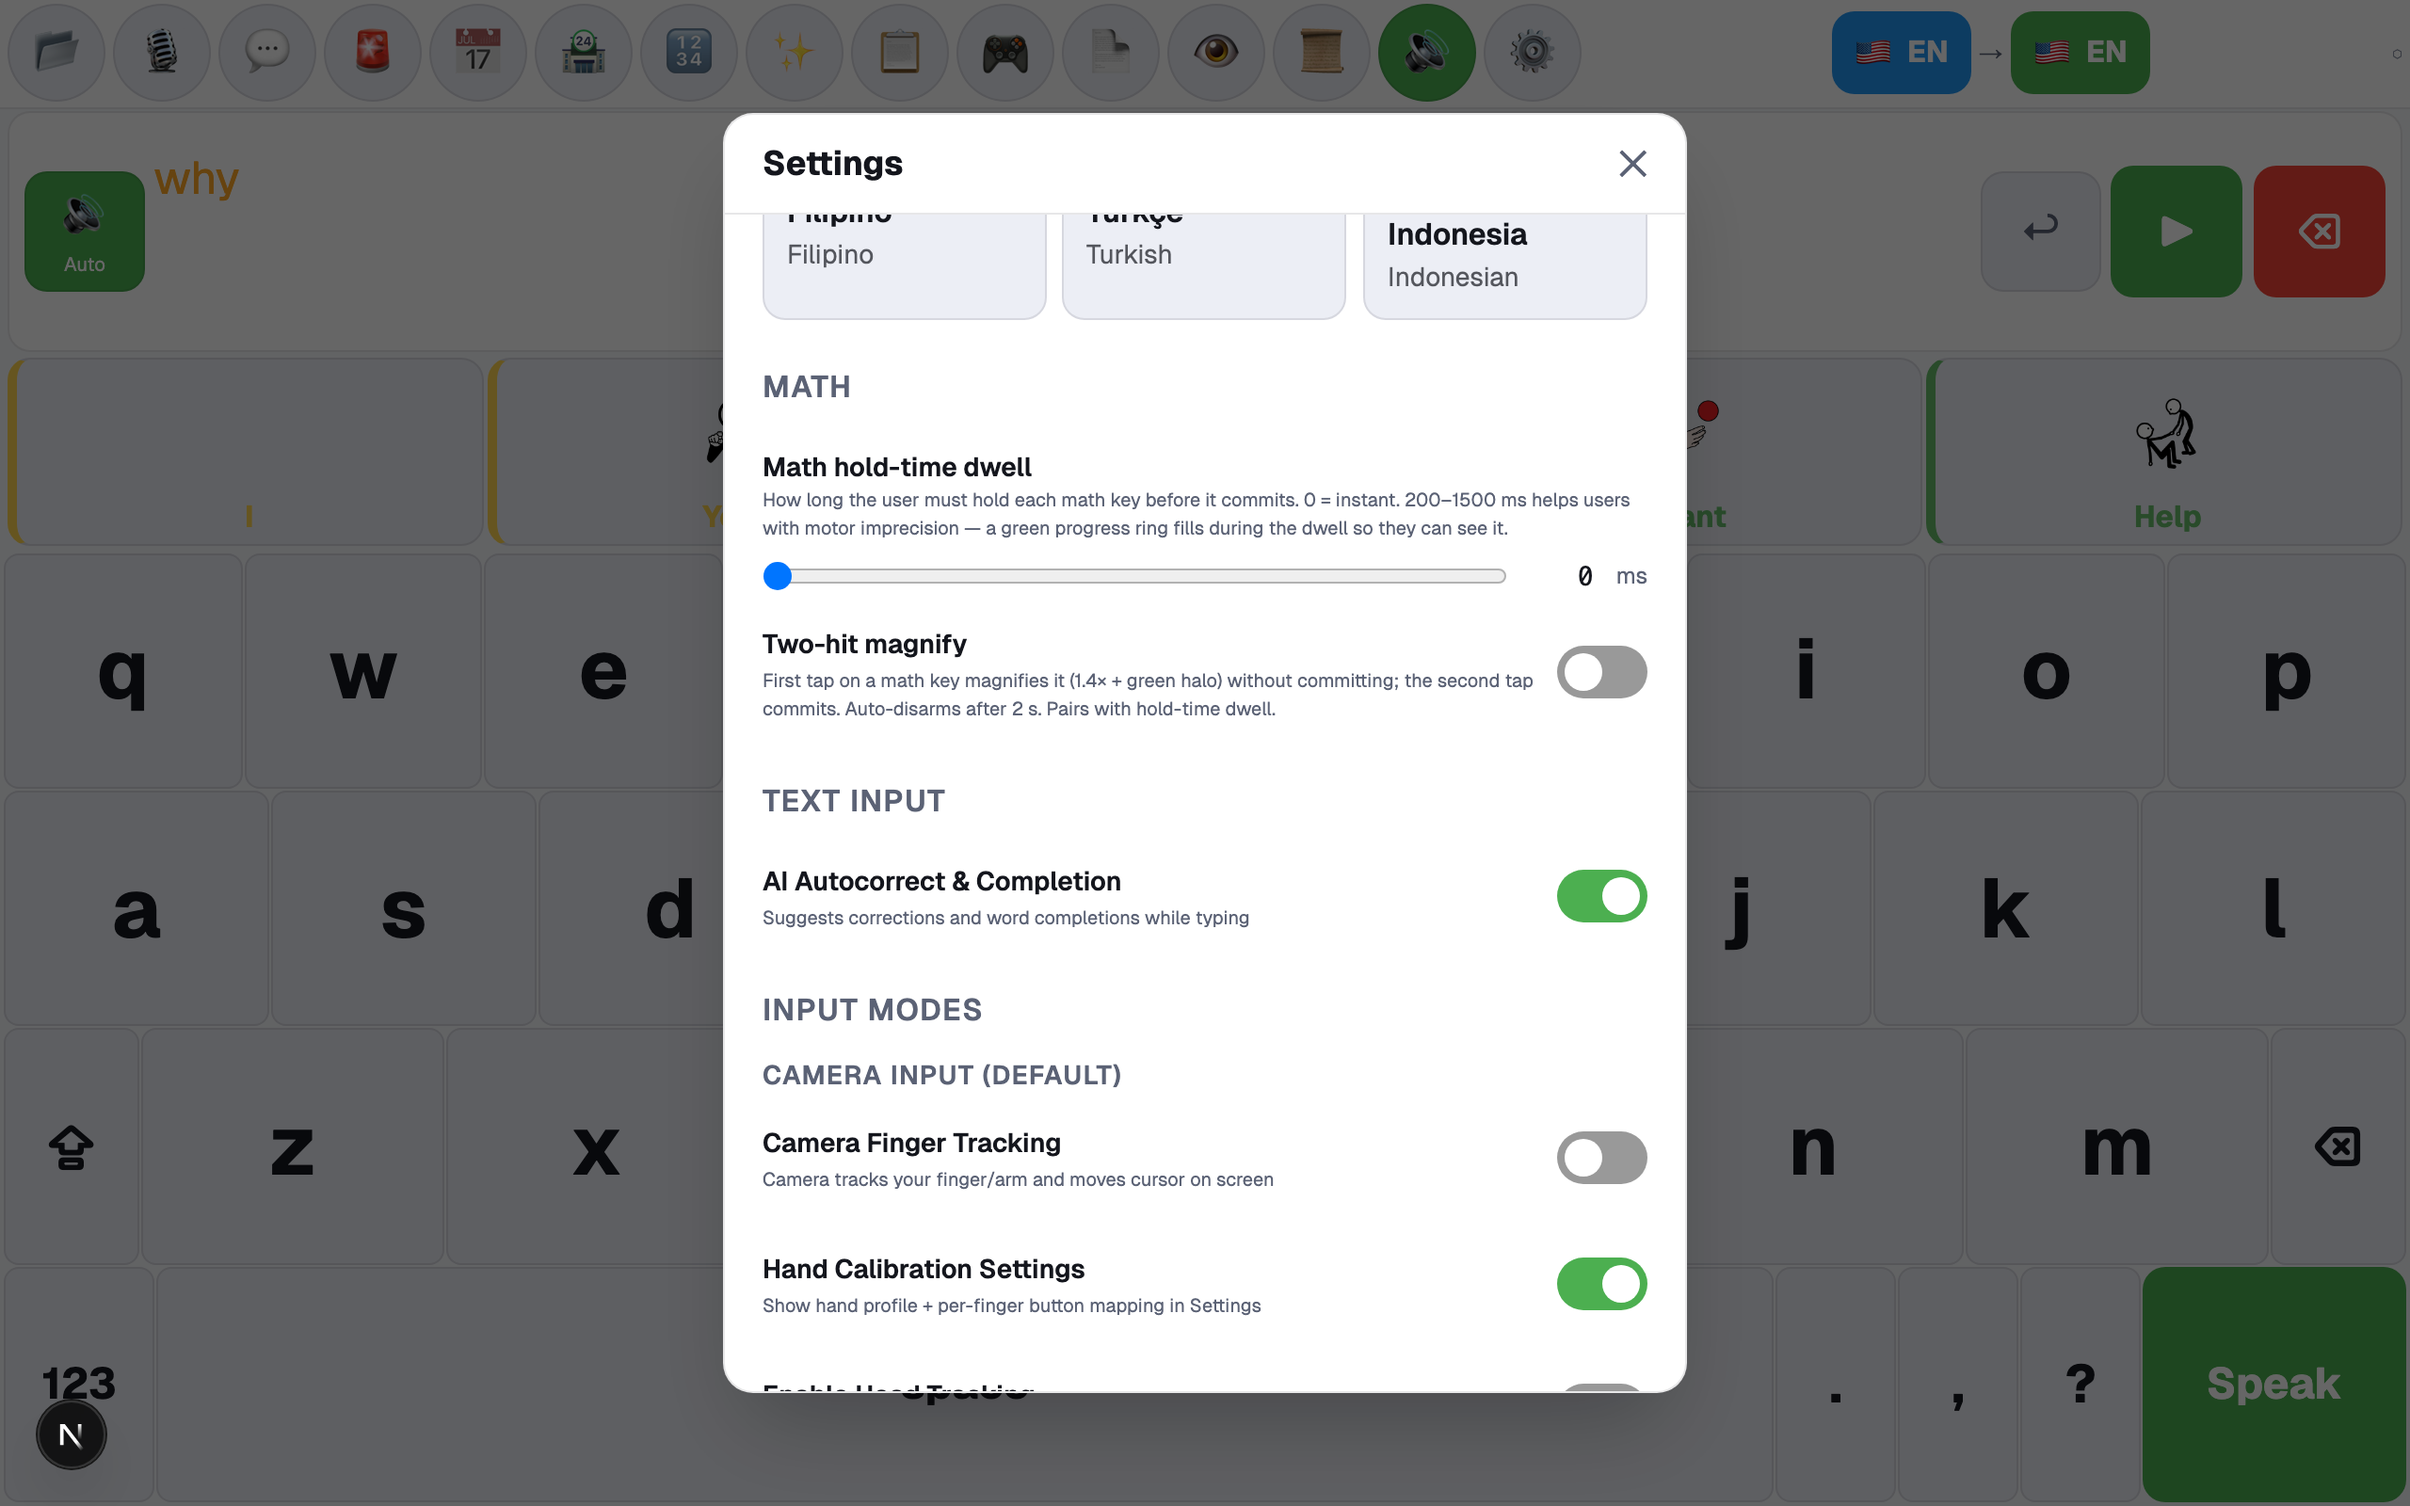
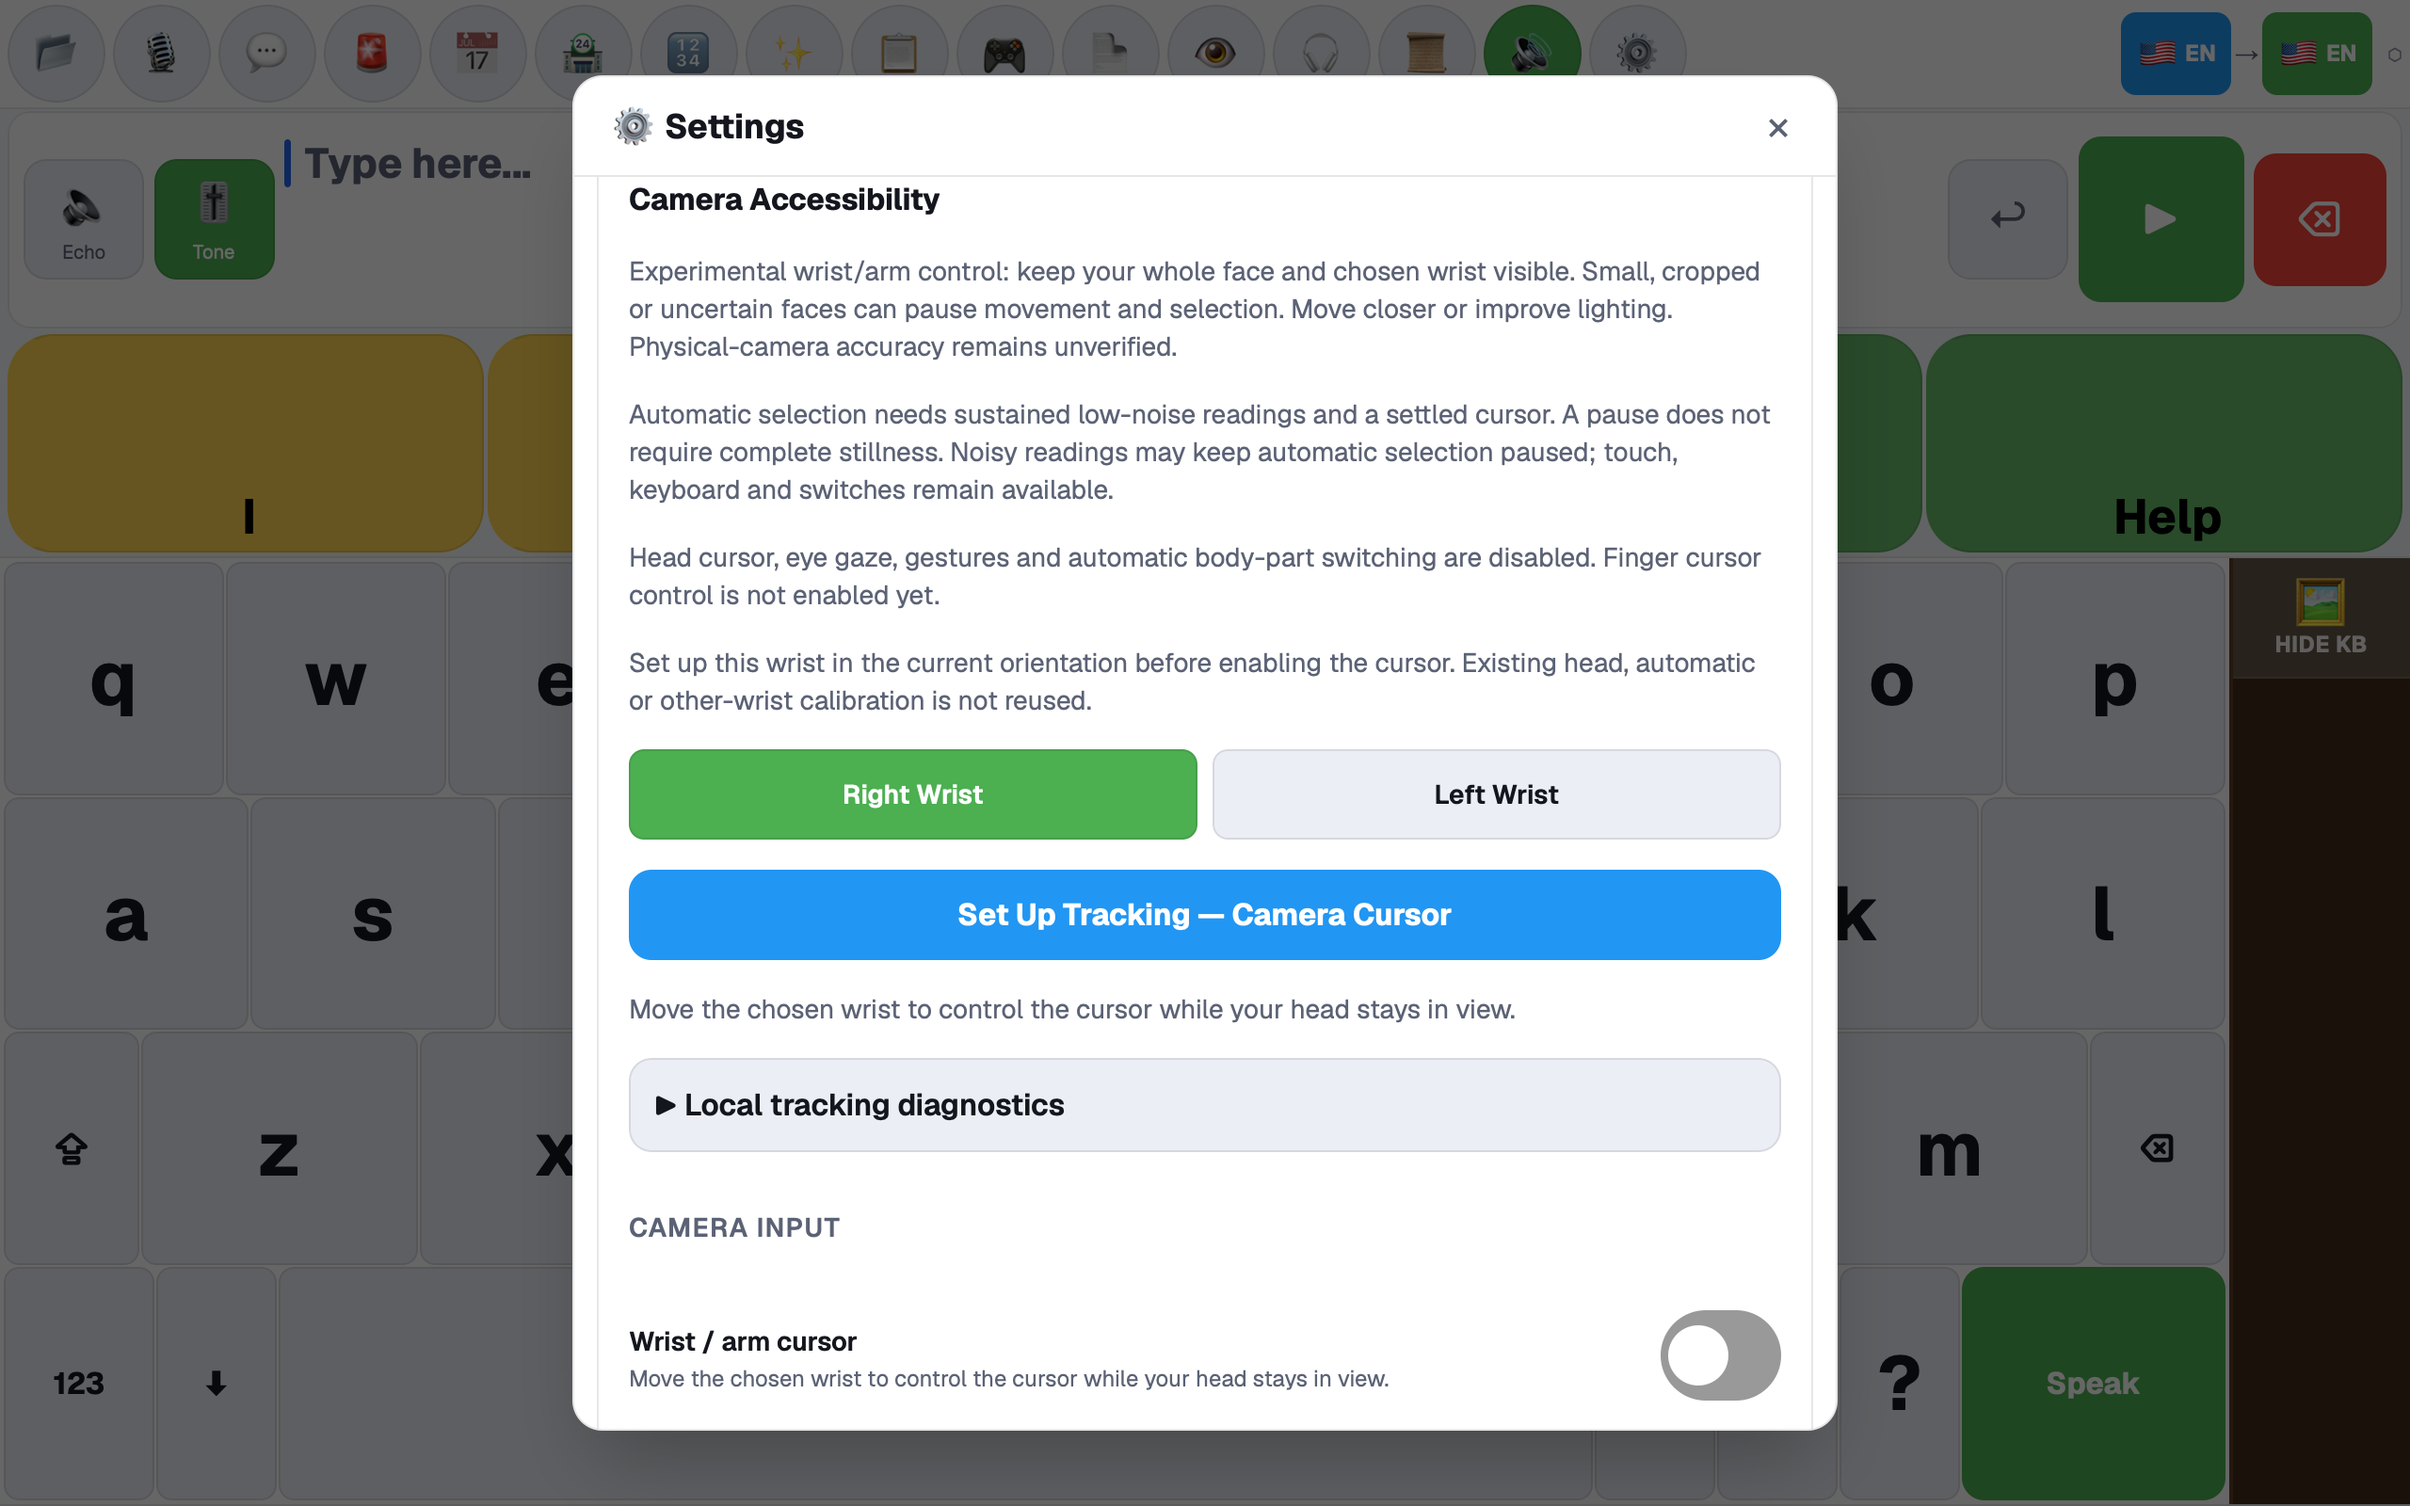
docs(camera): describe the wrist cursor that ships, not head, eye or gestures
The README still offered a head cursor, eye-gaze weighting and blink, nod and
hand gestures, and its settings screenshot showed a finger-tracking switch.
None of these are available: camera input is an experimental cursor driven by
one chosen wrist with the face kept in view. The README now says that, lists
what is disabled, corrects the dwell range, keeps the touch accuracy option,
and shows the current settings panel. The gesture document is marked as a
design record that is not in this release.

diff --git a/docs/GESTURE_RECOGNITION.md b/docs/GESTURE_RECOGNITION.md
@@ -1,14 +1,16 @@
 # Gesture Recognition System — Design Document
 
-> **TL;DR** — head-pose dwell click + per-user hand-pose gesture profiles. Runs on FaceLandmarker + MediaPipe Hands locally, no video leaves the device. Configurable per-child via the calibration UI.
+> **Status — not in this release.** This is the design record for head-pose dwell and gesture input. The camera input that ships is the experimental wrist cursor described in the [README](../README.md#-hands-free-camera-cursor-experimental): one chosen wrist, with your face kept in view. Head cursor, eye-gaze weighting, finger tracking and gestures are disabled in Settings.
 
-## At a glance
+> **Design summary** — head-pose dwell click + per-user hand-pose gesture profiles, running on FaceLandmarker + MediaPipe Hands locally, so no video leaves the device.
 
-- ✅ **Head-pose tracking** — dwell-click on any AAC tile or keyboard key
-- ✅ **Hand-pose gestures** — per-child custom mappings (open palm = enter, fist = backspace, etc.)
-- ✅ **Drift safety stack** — auto-disable + recalibration prompt
-- ✅ **Esc escape hatch** — instantly disable tracking and return to qwerty without losing the message bar
-- ✅ Camera-stream singleton — head + hand tracker share one stream
+## At a glance (designed, not enabled)
+
+- **Head-pose tracking** — dwell-click on any AAC tile or keyboard key
+- **Hand-pose gestures** — per-child custom mappings (open palm = enter, fist = backspace, etc.)
+- **Drift safety stack** — auto-disable + recalibration prompt
+- **Esc escape hatch** — instantly disable tracking and return to qwerty without losing the message bar
+- Camera-stream singleton — head + hand tracker share one stream
 
 <details>
 <summary><strong>📐 Full design doc — landmarks, smoothing, calibration, drift</strong></summary>
